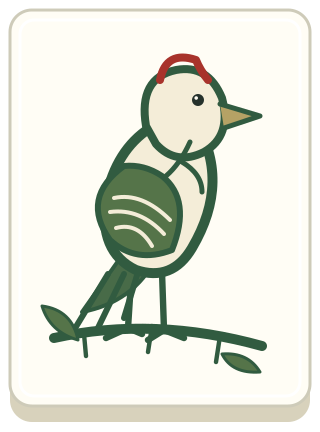
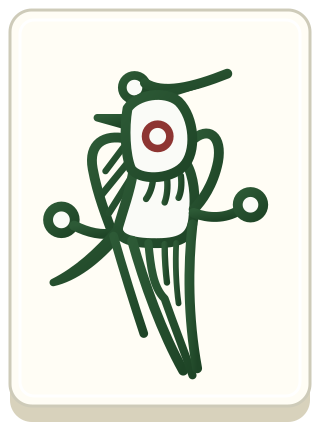
更新一条鸟形牌面并修复头部闭环

Changed region(s): [[0.125, 0.1204, 0.8438, 0.9028]]

diff --git a/ui/src/components/Tile.jsx b/ui/src/components/Tile.jsx
@@ -2,7 +2,8 @@ import { tileName } from '../game/state.js';
 
 export function Tile({ tile, back=false, selected=false, onClick, className='', disabled=false, label }) {
   const name=back?'未公开的牌':tileName(tile);
-  const image=<img src={`/tiles/${back?'back':tile}.svg${!back&&tile==='tiao-6'?'?v=2rows-3cols':''}`} alt={onClick?'':name} draggable="false" />;
+  const revision=!back?({'tiao-1':'user-svg-bird-v5-closed-head','tiao-6':'2rows-3cols'}[tile]):null;
+  const image=<img src={`/tiles/${back?'back':tile}.svg${revision?`?v=${revision}`:''}`} alt={onClick?'':name} draggable="false" />;
   const classes=`tile ${back?'tile-back':''} ${selected?'is-selected':''} ${className}`;
   return onClick
     ? <button type="button" className={classes} onClick={onClick} disabled={disabled} aria-label={label??name} aria-pressed={selected}>{image}</button>

diff --git a/tools/draw-mahjong-assets.py b/tools/draw-mahjong-assets.py
@@ -43,22 +43,41 @@ def bamboo(x, y, height, color=GREEN, rotation=0, index=0):
 
 
 def bird():
-    return f'''<g data-pip="1" data-representation="bird" stroke="{GREEN}" stroke-linecap="round" stroke-linejoin="round">
-      <path d="M27 169Q77 158 131 173" fill="none" stroke-width="5"/>
-      <path d="M42 167L43 178 M76 163L74 176 M110 168L108 181" fill="none" stroke-width="2.2"/>
-      <path d="M66 133L64 164 M81 136L82 165 M64 164L53 169 M64 164L71 167 M82 165L74 170 M82 165L92 169" fill="none" stroke-width="3.2"/>
-      <path d="M70 115Q58 132 41 156Q67 151 78 129Z" fill="#486b48" stroke-width="2"/>
-      <path d="M54 137L37 165 M62 137L48 166 M69 136L62 159" fill="none" stroke-width="3"/>
-      <path d="M97 60Q116 90 96 124Q86 141 68 135Q49 126 53 99Q58 75 75 64" fill="#f4edd8" stroke-width="5"/>
-      <path d="M62 83Q40 99 55 120Q68 132 86 125Q96 100 81 88Q72 82 62 83Z" fill="#557449" stroke-width="3"/>
-      <path d="M57 99Q71 96 85 110 M55 106Q70 104 82 117 M58 114Q69 111 76 123" fill="none" stroke="#f4edd8" stroke-width="2"/>
-      <path d="M73 63Q69 39 88 35Q104 32 111 49Q116 68 102 76Q88 83 78 72Z" fill="#f4edd8" stroke-width="4"/>
-      <path d="M110 52L130 58L112 64" fill="#b5a265" stroke-width="2.5"/>
-      <path d="M80 40Q83 25 98 30Q100 35 104 40" fill="none" stroke="{RED}" stroke-width="4"/>
-      <circle cx="99" cy="50" r="3" fill="{INK}" stroke="none"/>
-      <circle cx="98.1" cy="49" r=".9" fill="#fffdf5" stroke="none"/>
-      <path d="M95 71Q90 82 83 88 M91 81Q101 87 101 96" fill="none" stroke-width="2.5"/>
-      <path d="M111 177Q124 176 130 186Q116 187 111 177Z M39 170Q25 166 21 153Q36 155 39 170Z" fill="#557449" stroke-width="1.5"/>
+    # Uniformly scale the user's SVG motif into the existing tile shell.
+    # Paint the closed head last so the chest fill cannot hide its lower edge.
+    return '''<g data-pip="1" data-representation="bird" transform="translate(10.4 3.2) scale(.58)" fill="none" stroke="url(#tiaoOneInkGreen)" stroke-linecap="round" stroke-linejoin="round">
+      <defs>
+        <linearGradient id="tiaoOneInkGreen" x1="0%" y1="0%" x2="100%" y2="100%">
+          <stop offset="0%" stop-color="#2D5A36"/>
+          <stop offset="100%" stop-color="#1E4426"/>
+        </linearGradient>
+      </defs>
+      <circle cx="98" cy="70" r="10.5" stroke-width="7.5" fill="#FAFBF7"/>
+      <path d="M 107 66 C 122 76, 148 70, 178 58" stroke-width="8.5"/>
+      <path d="M 94 81 C 110 80, 132 76, 178 58" stroke-width="6.5"/>
+      <path d="M 93 96 L 66 96 L 91 103" stroke-width="6.5" fill="#254F2E"/>
+      <path d="M 91 114 C 72 110, 58 118, 62 140 C 66 162, 74 182, 80 198" stroke-width="8.5"/>
+      <path d="M 88 122 L 73 142" stroke-width="5.5"/>
+      <path d="M 92 135 L 70 162" stroke-width="6"/>
+      <path d="M 95 148 L 76 178" stroke-width="6"/>
+      <path d="M 97 142 C 94 160, 88 176, 84 190 C 82 200, 96 205, 122 204 C 142 203, 148 196, 149 180 C 151 164, 149 146, 143 136" stroke-width="8.5" fill="#FAFBF7"/>
+      <path d="M 114 147 C 114 155, 111 162, 108 166" stroke-width="5.5"/>
+      <path d="M 126 148 C 127 156, 126 164, 124 169" stroke-width="5.5"/>
+      <path d="M 138 146 C 139 154, 138 161, 136 165" stroke-width="5.5"/>
+      <path d="M 147 116 C 162 102, 174 112, 170 134 C 166 154, 156 168, 149 175" stroke-width="8.5"/>
+      <circle cx="35" cy="184" r="11.5" stroke-width="8.5" fill="#FAFBF7"/>
+      <path d="M 46 189 C 58 195, 70 198, 82 195" stroke-width="8.5"/>
+      <path d="M 83 192 C 66 212, 48 228, 28 238 C 46 234, 66 220, 86 196" stroke-width="6.5" fill="#254F2E"/>
+      <path d="M 149 178 C 162 183, 176 183, 188 176" stroke-width="8.5"/>
+      <circle cx="198" cy="171" r="11" stroke-width="8.5" fill="#FAFBF7"/>
+      <path d="M 80 198 C 88 226, 98 258, 106 282" stroke-width="7.5"/>
+      <path d="M 96 202 C 106 238, 122 282, 140 314" stroke-width="8.5"/>
+      <path d="M 110 204 C 112 225, 114 242, 124 252 C 132 275, 142 300, 148 318" stroke-width="7"/>
+      <path d="M 124 205 C 124 218, 125 230, 126 238" stroke-width="5.5"/>
+      <path d="M 134 204 C 133 222, 134 242, 136 256" stroke-width="5"/>
+      <path d="M 148 188 C 144 224, 144 268, 152 312" stroke-width="8.5"/>
+      <path d="M 92 88 C 89 105, 90 128, 95 140 C 102 150, 128 150, 140 138 C 152 126, 150 96, 136 82 C 124 72, 100 76, 92 88 Z" stroke-width="8.5" fill="#FAFBF7"/>
+      <circle cx="118" cy="112" r="10.5" stroke="#8E3532" stroke-width="6.5" fill="#FAFBF7"/>
     </g>'''
 
 

diff --git a/ui/AGENTS.md b/ui/AGENTS.md
@@ -8,6 +8,8 @@
 - Concealed-back orientation: left90°, right270° (180° flipped from its former side direction), top180°. The separated new-draw back follows its seat; public melds keep their existing orientation.
 - Seven bamboo has three vertical green pairs beneath one red piece; eight bamboo has eight equal, symmetric joined bamboo pieces.
 - Six bamboo is2 rows ×3 columns: three green bamboo pieces on top and three below. Keep the source generator and public SVG synchronized.
+- One bamboo uses the bird paths from the user's2026-10-14 supplied SVG, uniformly scaled to the existing tile shell: ring crest, left-pointing beak, hollow red eye, textured narrow left wing, rounded right wing, two side branch rings and separate open tail feathers. The supplied vector motif supersedes earlier interpretations of the raster reference. Keep the vector source, public SVG, PNG and tile catalog synchronized.
+- The one-bamboo head must remain a visibly closed loop, including its connected lower edge where it meets the body. Paint the head and eye after the chest and wings so their fills cannot cover the head outline.
 - Chinese UI text is hand-written. Do not render generated-image text or claim real AI analysis exists.
 - Opponent concealed stacks must fit all13 tiles; adapt tile size rather than clipping the last two. Show actual concealed count separately from melds.
 - After a discard, advance 上家 → 我 → 下家 → 对家 → 上家. Selecting self defaults to draw; own draw switches to discard. Pung/kong keeps the acting seat. Undo restores the event's seat and action.

diff --git a/assets/tiles/README.md b/assets/tiles/README.md
@@ -13,6 +13,10 @@
 
 最新修订：六条为上下两行、每行三根绿色竹节（2行×3列）；八条以八根等长等粗竹节对称拼接；七条下方为三组竖向绿色双竹；九条中间一列为红色；条牌加粗；五筒上下两排稍微拉开；六筒四个红圈整体下移，七、八筒维持紧凑排列。
 
+2026-10-14一条修订：采用用户最新提供的SVG鸟形路径，等比例缩放到现有牌框；保留深绿渐变线条、环形冠羽、向左尖喙、空心红眼、左右翅膀、两侧枝环和分开的长尾羽。此版本取代此前对小鸟截图的描摹；同步源生成器、独立SVG/PNG、完整校对图与前端素材。
+
+头部轮廓在胸腹和翅膀之后绘制，确保头部下沿连通、整圈闭合，不被胸腹填充遮挡。
+
 单张SVG为160×216，PNG为320×432。条筒数量与万牌数字均有结构检查；生成工具位于项目根目录`tools`。
 
 本目录只包含牌面素材及校对图，尚不代表交互页面已经实现。界面中文应使用人工编写的字符串，与素材名称一致。
